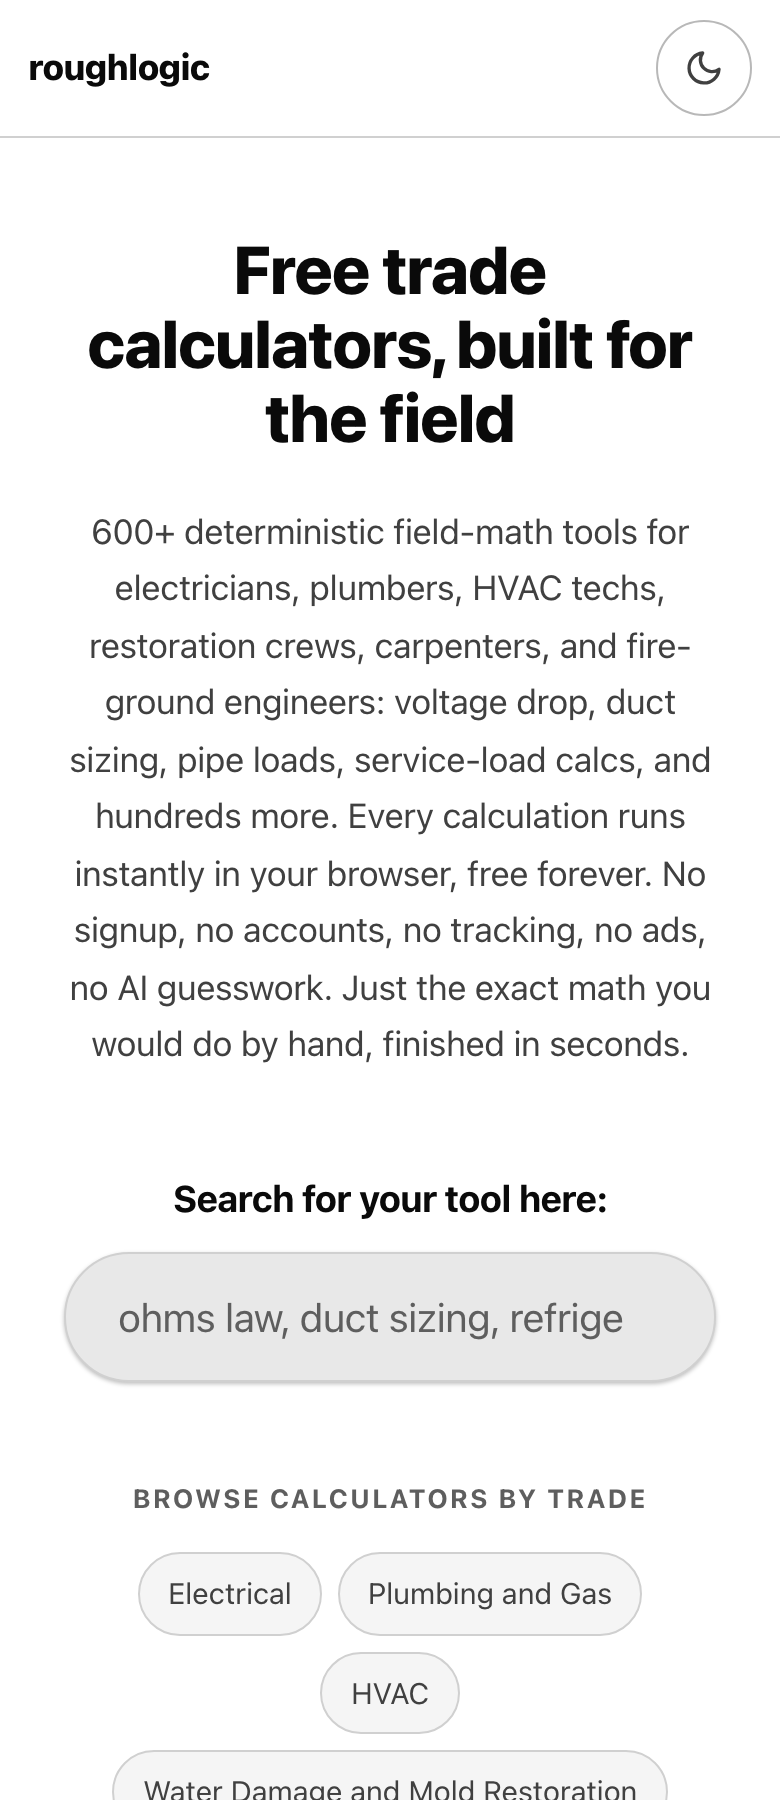
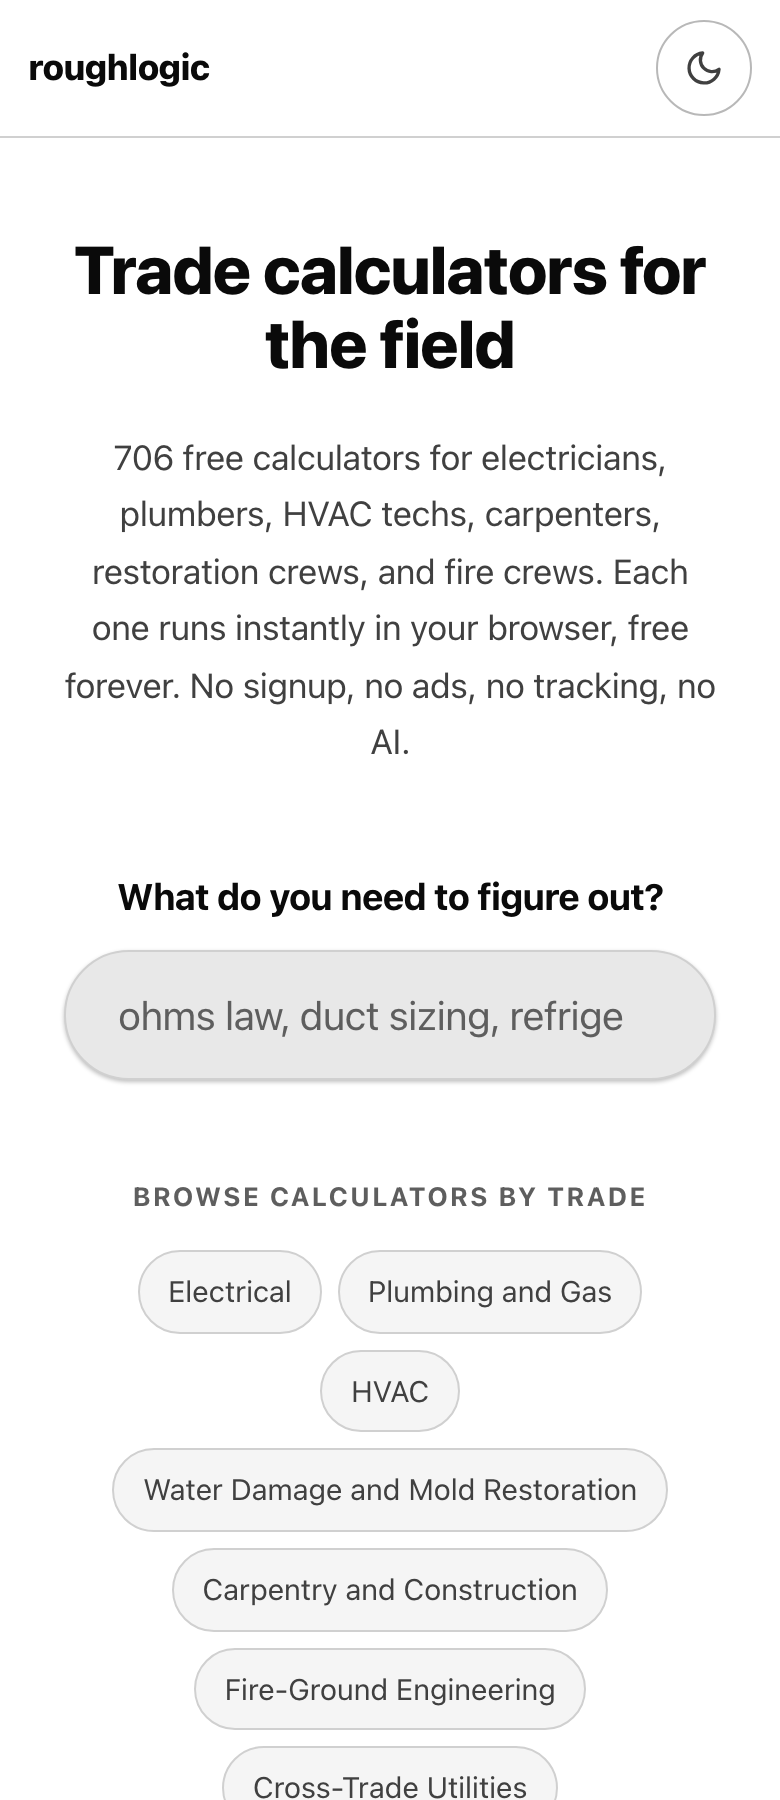
docs: refresh stale README home screenshot to the live 706-tile hero
The flagship README image docs/img/home-mobile.png still showed the
retired "600+ deterministic field-math tools" hero copy (plus the older
headline and search prompt), all superseded when the 0.86.0 landing moved
the home count off the rounded "600+" to the live tile count. Regenerated
against the freshly built dist/ home view at a 390px viewport (DSF 2,
light theme, same 780x1800 framing); it now shows "706 free calculators",
the "Trade calculators for the field" headline, and the current search
prompt. The two calculator screenshots were re-audited against a fresh
capture and left unchanged (the Ohm's Law tile is byte-for-byte current).

Mobile guarantee re-verified first across three gates: check-shell-mobile
(822 checks / 728 shells, zero horizontal scroll at 320px portrait,
568x320 landscape, 200% zoom), render-no-nan, and the responsive-stress
every-live-tile 320px sweep (706 views, zero page-level horizontal
scroll). All other gates green: lint (27 checks), 4,999 unit tests,
data:verify. Docs-only; no code, version, or data change.

diff --git a/CHANGELOG.md b/CHANGELOG.md
@@ -4,6 +4,10 @@ All notable changes to roughlogic.com are recorded here. The project follows sem
 
 ## Unreleased
 
+### docs: refresh the stale README home screenshot to the live 706-tile hero, 2026-07-01
+
+A documentation-only accuracy pass; no tile, code-path, or version change. The flagship README image `docs/img/home-mobile.png` still showed the retired "600+ deterministic field-math tools" hero copy and the older headline ("Free trade calculators, built for the field") and search prompt ("Search for your tool here:"), all superseded when the 0.86.0 landing moved the home count off the rounded "600+" to the live tile count. The screenshot is regenerated against the freshly built `dist/` home view at a 390px viewport (deviceScaleFactor 2, light theme, the same 780x1800 framing as the prior asset) and now shows the current "706 free calculators" description, the "Trade calculators for the field" headline, and the "What do you need to figure out?" search prompt. The two calculator screenshots (`calculator-mobile.png`, `calculator-dark.png`) were re-audited against a fresh capture and left unchanged: they show the Ohm's Law tile (V 12 / I 2 -> R 6.000 ohm, P 24.000 W), whose layout and output are byte-for-byte current. The mobile guarantee was re-verified first across three independent gates before the refresh: `check-shell-mobile` (822 checks across 728 prerendered shells, zero horizontal scroll at 320px portrait, 568x320 landscape, and 200% text zoom), `render-no-nan` (zero NaN / Infinity / undefined leak), and the `responsive-stress` every-live-tile 320px sweep (706 SPA tile views, zero page-level horizontal scroll). All other gates green: lint (27 checks at 706 tiles / 50 modules / 728 sitemap URLs), 4,999 unit tests, and data:verify.
+
 ### docs: resync ungated repo-map figures to the 706-tile catalog, 2026-07-01
 
 A documentation-only accuracy pass; no tile, code-path, or version change. Two runtime sweeps confirmed the catalog is clean first: `render-no-nan` (701 tiles, zero NaN / Infinity / undefined leak in the user-visible output) and the `responsive-stress` every-live-tile walk (706 SPA tile views at the 320 px floor on Chromium, zero page-level horizontal scroll), alongside the static `check-shell-mobile` gate (822 checks across 728 prerendered shells, zero horizontal scroll). No bug was found.